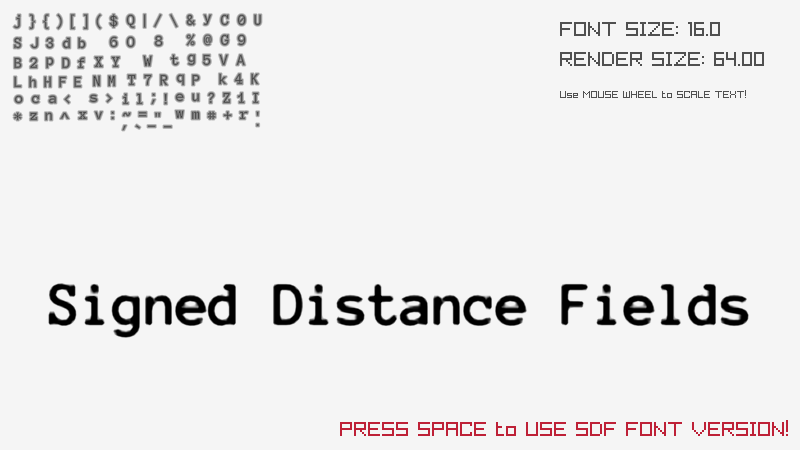
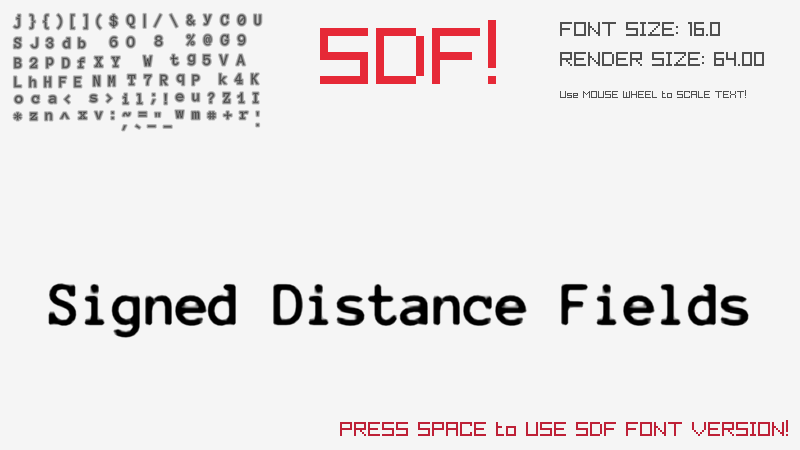
Reviewed example for clarity

Changed region(s): [[0.375, 0.0311, 0.625, 0.1867]]

diff --git a/examples/text/text_font_sdf.c b/examples/text/text_font_sdf.c
@@ -98,6 +98,9 @@ int main()
                 DrawTextEx(fontDefault, msg, fontPosition, fontSize, 0, BLACK);
                 DrawTexture(fontDefault.texture, 10, 10, BLACK);
             }
+            
+            if (currentFont == 1) DrawText("SDF!", 320, 20, 80, RED);
+            else DrawText("default font", 315, 40, 30, GRAY);
 
             DrawText("FONT SIZE: 16.0", GetScreenWidth() - 240, 20, 20, DARKGRAY);
             DrawText(FormatText("RENDER SIZE: %02.02f", fontSize), GetScreenWidth() - 240, 50, 20, DARKGRAY);
